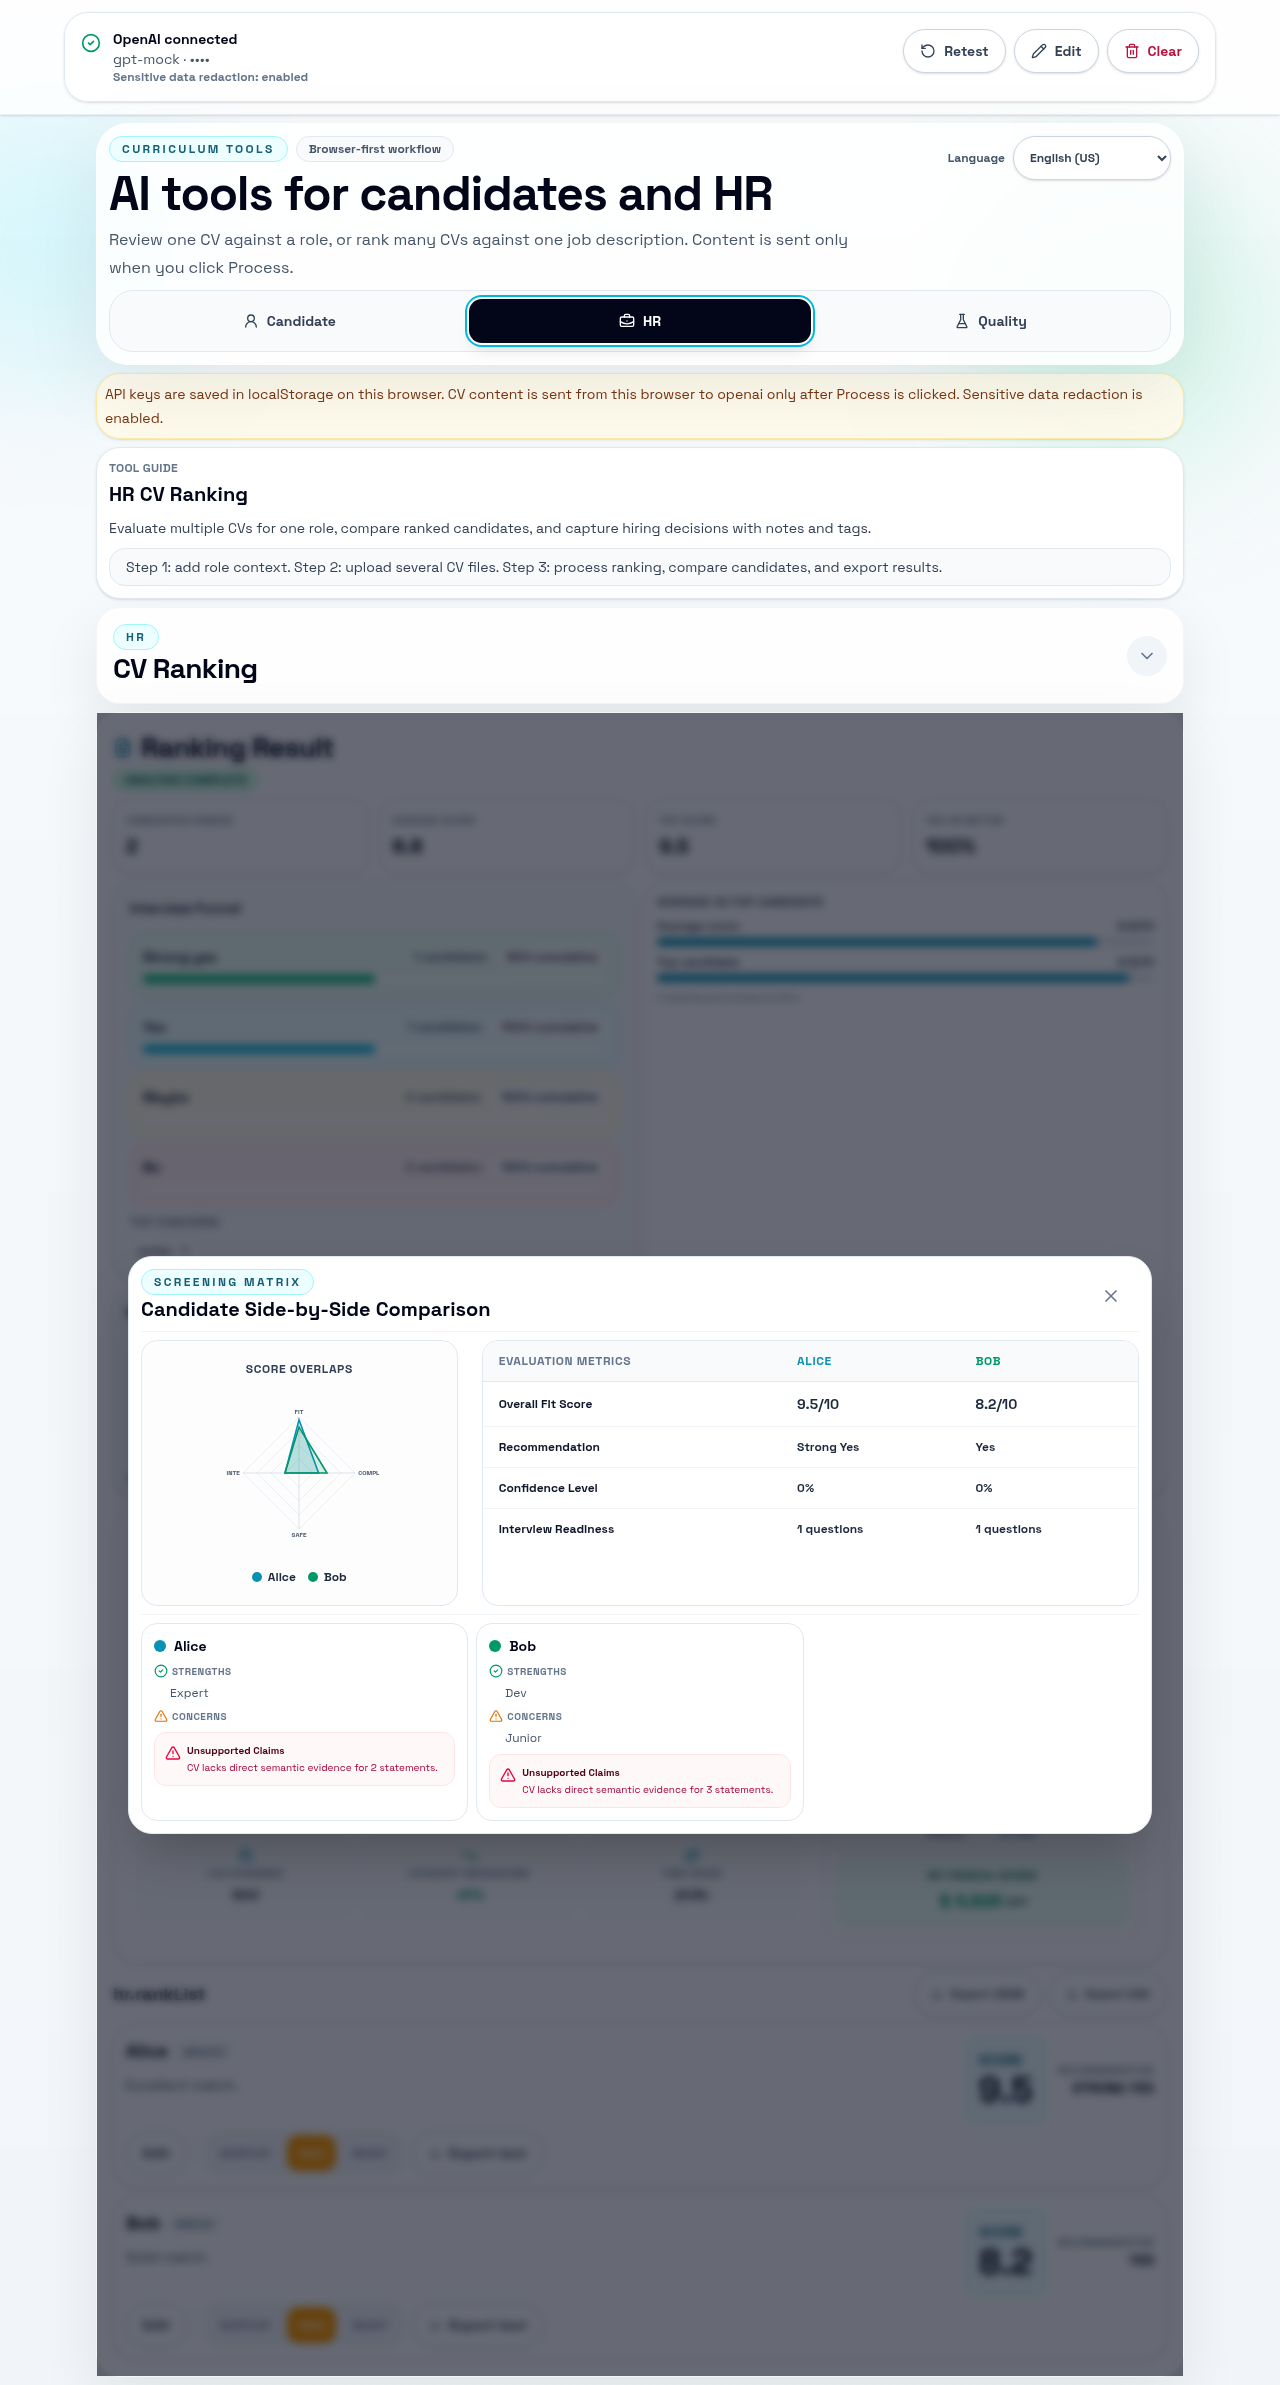
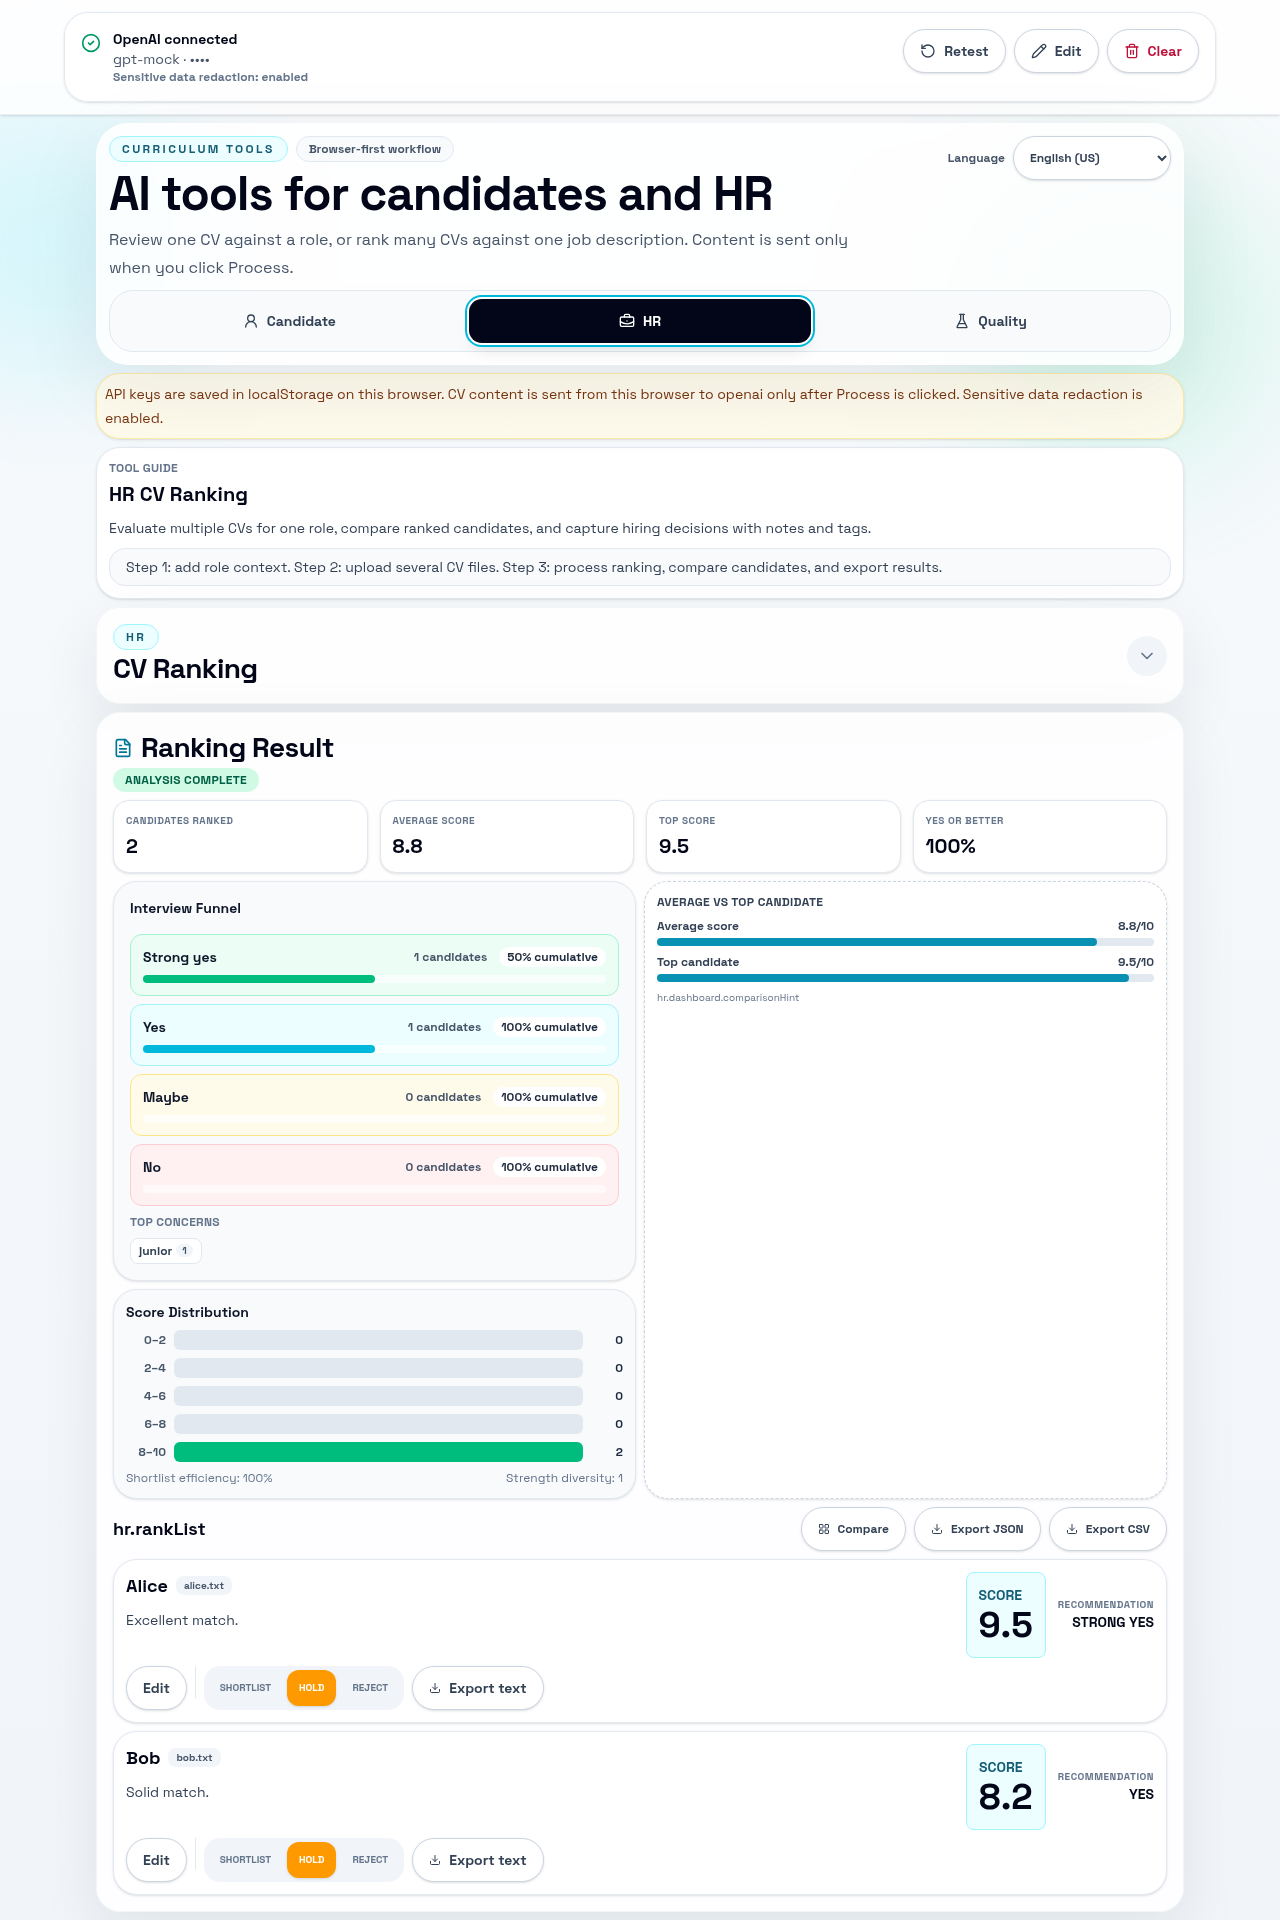
feat(portfolio): remove ROI Analytics from Curriculum Tools showcase

diff --git a/index.html b/index.html
@@ -446,7 +446,7 @@
                 <a href="/curriculum-tools/" title="Open Curriculum Tools">
                   <img
                     src="assets/img/curriculum-tools-hr.png"
-                    alt="Curriculum Tools — HR CV Ranking dashboard with multiple candidates and ROI analytics"
+                    alt="Curriculum Tools — HR CV Ranking & Matrix dashboard with multiple candidates"
                     class="mt-4 w-full rounded-xl border border-white/10 object-cover shadow-lg shadow-blue-900/20 transition hover:brightness-110"
                   />
                 </a>
@@ -609,12 +609,12 @@
                     <a href="/curriculum-tools/" title="Open Curriculum Tools">
                       <img
                         src="assets/img/curriculum-tools-hr.png"
-                        alt="HR CV Ranking — batch comparison of multiple candidates with ROI analytics"
+                        alt="HR CV Ranking & Matrix — batch comparison of multiple candidates with ROI analytics"
                         class="rounded-xl border border-white/10 object-cover shadow-lg shadow-blue-900/20 transition hover:brightness-110"
                       />
                     </a>
                     <figcaption class="text-center text-xs text-slate-400">
-                      HR CV Ranking
+                      HR CV Ranking & Matrix
                     </figcaption>
                   </figure>
                   <figure class="flex flex-col gap-1">
